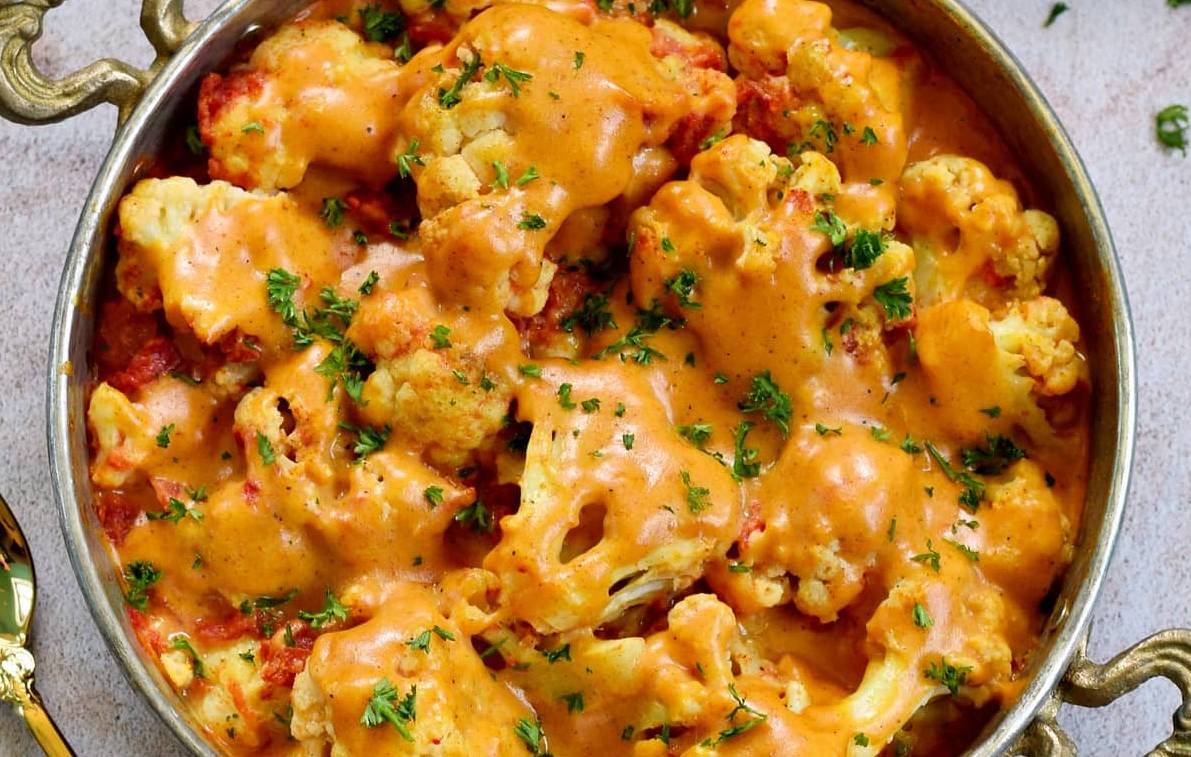
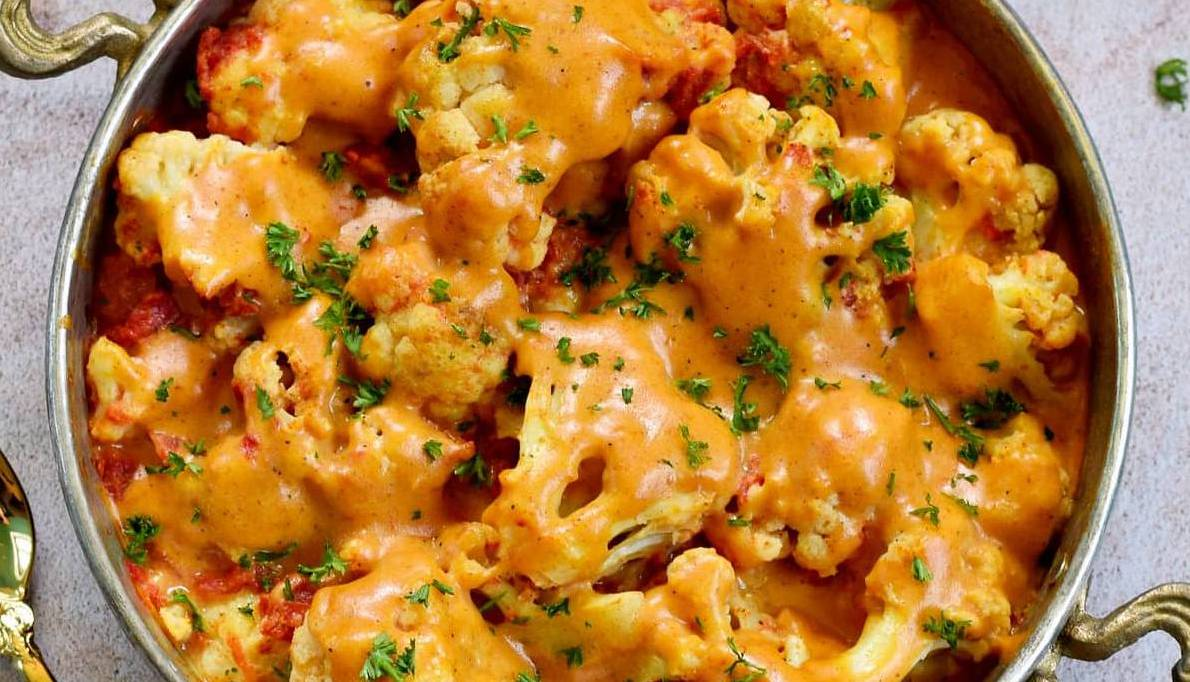
images added

diff --git a/Hauptgerichte/Pfannengerichte/Wuerziger_Kichererbsenburger/Wuerziger_Kichererbsenburger.tex b/Hauptgerichte/Pfannengerichte/Wuerziger_Kichererbsenburger/Wuerziger_Kichererbsenburger.tex
@@ -10,8 +10,8 @@
 
     \graph
         {
-            big=Hauptgerichte/Pfannengerichte/Wuerziger_Kichererbsenburger/big.png
-            % small=Recipes/MainCourses/BBQChicken/Small.jpg
+            big=Hauptgerichte/Pfannengerichte/Wuerziger_Kichererbsenburger/big.png,
+            small=Hauptgerichte/Pfannengerichte/Wuerziger_Kichererbsenburger/small.jpg
         }
 
     % \introduction{einleitung}
